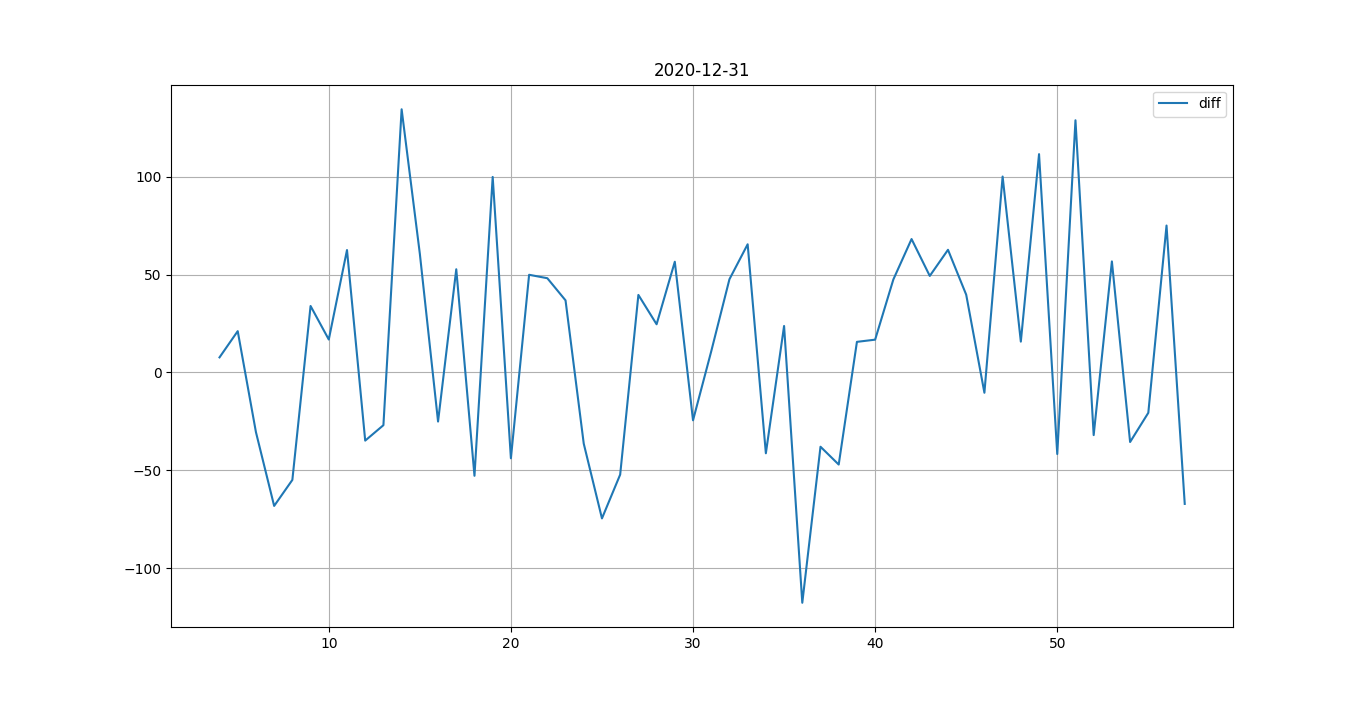
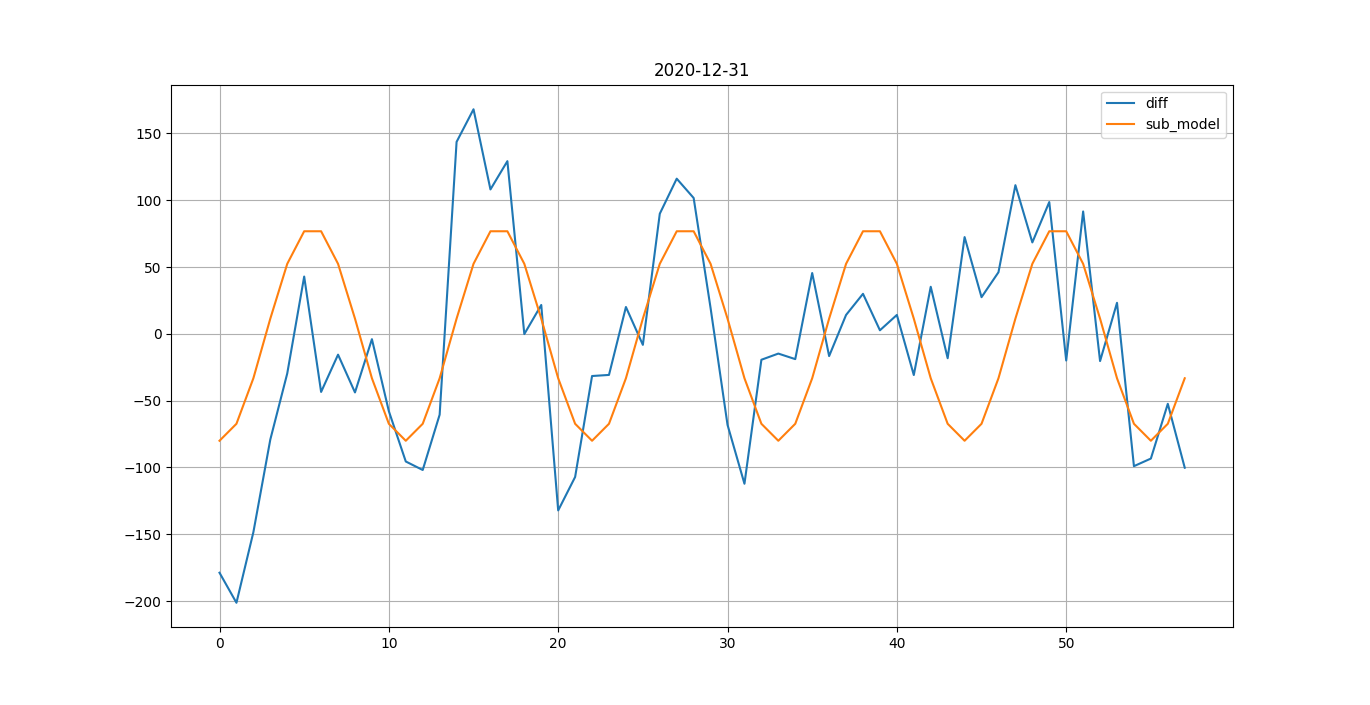
daily commit

diff --git a/src/study/realtime_v2.py b/src/study/realtime_v2.py
@@ -53,12 +53,12 @@ def get_csi500_realtime():
     table=browser.find_element_by_class_name("table_bg001")
     rows=get_rows(table, 1)
     
-    rows=list(map(lambda row:[row[0],convertUnit(row[4])], rows))
-    df=pd.DataFrame(rows,columns=["日期","中证500"])
+    rows=list(map(lambda row: [row[0], convertUnit(row[4])], rows))
     date_time = pd.to_datetime(df.pop('日期'), format='%Y%m%d')
     df["日期"]=date_time
 #     df.index=date_time
     return df
+
 
 def get_rzrq_realtime():
     url="http://data.eastmoney.com/rzrq/total/all.html"
@@ -67,8 +67,8 @@ def get_rzrq_realtime():
     table=browser.find_element_by_id("rzrq_history_table")
     #         table=tables[-1]
     rows=get_rows(table)
-    rows=list(map(lambda row:[row[0],row[1].strip(),convertUnit(row[3])/10000], rows))
-    df=pd.DataFrame(rows,columns=["日期","沪深300","融资余额"])
+    rows=list(map(lambda row:[row[0], row[1].strip(), convertUnit(row[3])/10000], rows))
+    df=pd.DataFrame(rows, columns=["日期", "沪深300", "融资余额"])
     date_time = pd.to_datetime(df.pop('日期'), format='%Y-%m-%d')
     df["日期"]=date_time
     return df
@@ -110,8 +110,12 @@ reflect = 6200
 
 
 def model2(a):
-    return math.fabs(3000*math.cos(a/62 - 0.55)+3400+80*math.cos(a/5 * math.pi)+25*math.cos(a * math.pi + math.pi)-reflect)+reflect
+    return math.fabs(3000*math.cos(a/62 - 0.55)+3400-reflect)+reflect+sub_model(a)
 
+
+def sub_model(a):
+    return -80*math.cos(a / 5.5 * math.pi)
+    # return 0
 
 def draw_predict(n=70):
     ind = range(n)
@@ -150,7 +154,7 @@ def draw_graph():
 #     (csi500_value[a]*2.7-1000-rzye[a])*2
     series1=(2.7*csi500["中证500"]-1000-demestic["融资余额"])*2
 #     print(series1)
-    features["风险-中证500"]=series1
+#     features["风险-中证500"]=series1
 #     print("rzrq",rzrq)
 #     print("demestic",demestic)
     series2=(2.7*rzrq["沪深300"]-demestic["融资余额"])*2+5000
@@ -167,12 +171,14 @@ def draw_graph():
 #     features["sin2"]=pd.Series(data=list(map(lambda a:3000*math.cos(a/60-0.55)+3350,num_ser)),name="sin")
 #     features["sim"]=pd.Series(data=list(map(lambda a:math.fabs(3000*math.cos(a/60-0.55)+3400+80*math.cos(a/5 *math.pi)-6200)+6200,num_ser)),name="sim")
 
-    features["sim"] = pd.Series(data=list(map(model2 , num_ser)), name="sim")
-    features["diff"] = features["sim"]-features["中证500"]
+    features["sim"] = pd.Series(data=list(map(model2, num_ser)), name="sim")
+
     print(features)
     features.plot(grid=True, title=date.today())
 #     print(features)
-    diff_df = features[["diff"]][4:]
+    features["diff"] = features["sim"]-features["中证500"]
+    features["sub_model"] = pd.Series(data=list(map(sub_model, num_ser)), name="sim")
+    diff_df = features[["diff", "sub_model"]]
     diff_df.plot(grid=True, title=date.today())
     print("diff mean", diff_df.mean())
     print("diff std", diff_df.std())

diff --git a/src/file_cache.py b/src/file_cache.py
@@ -9,7 +9,7 @@ tmp_dir = os.path.join(os.getcwd(),"cache")
 
 print("cache dir:",tmp_dir)
 
-cache_only = False
+cache_only = True
 no_cache = False
 
 
@@ -48,7 +48,7 @@ def get_cache(cache_id, func, param=None):
     print("retriving ", cache_id)
     df = get_from_cache(cache_id)
     result = None
-    if is_up_to_date(df):
+    if cache_only or is_up_to_date(df):
         print("retriving %s from cache" %(cache_id))
         result = df
     else:
@@ -65,10 +65,10 @@ def get_cache(cache_id, func, param=None):
         
     
     
-    up_to_date= is_up_to_date(result)
+    up_to_date = is_up_to_date(result)
         
-    result.index= pd.to_datetime(result.pop('日期'), format='%Y-%m-%d')
-    if up_to_date and not no_cache:
+    result.index = pd.to_datetime(result.pop('日期'), format='%Y-%m-%d')
+    if up_to_date and not no_cache and not cache_only:
         push(cache_id, result)
     return result
 
